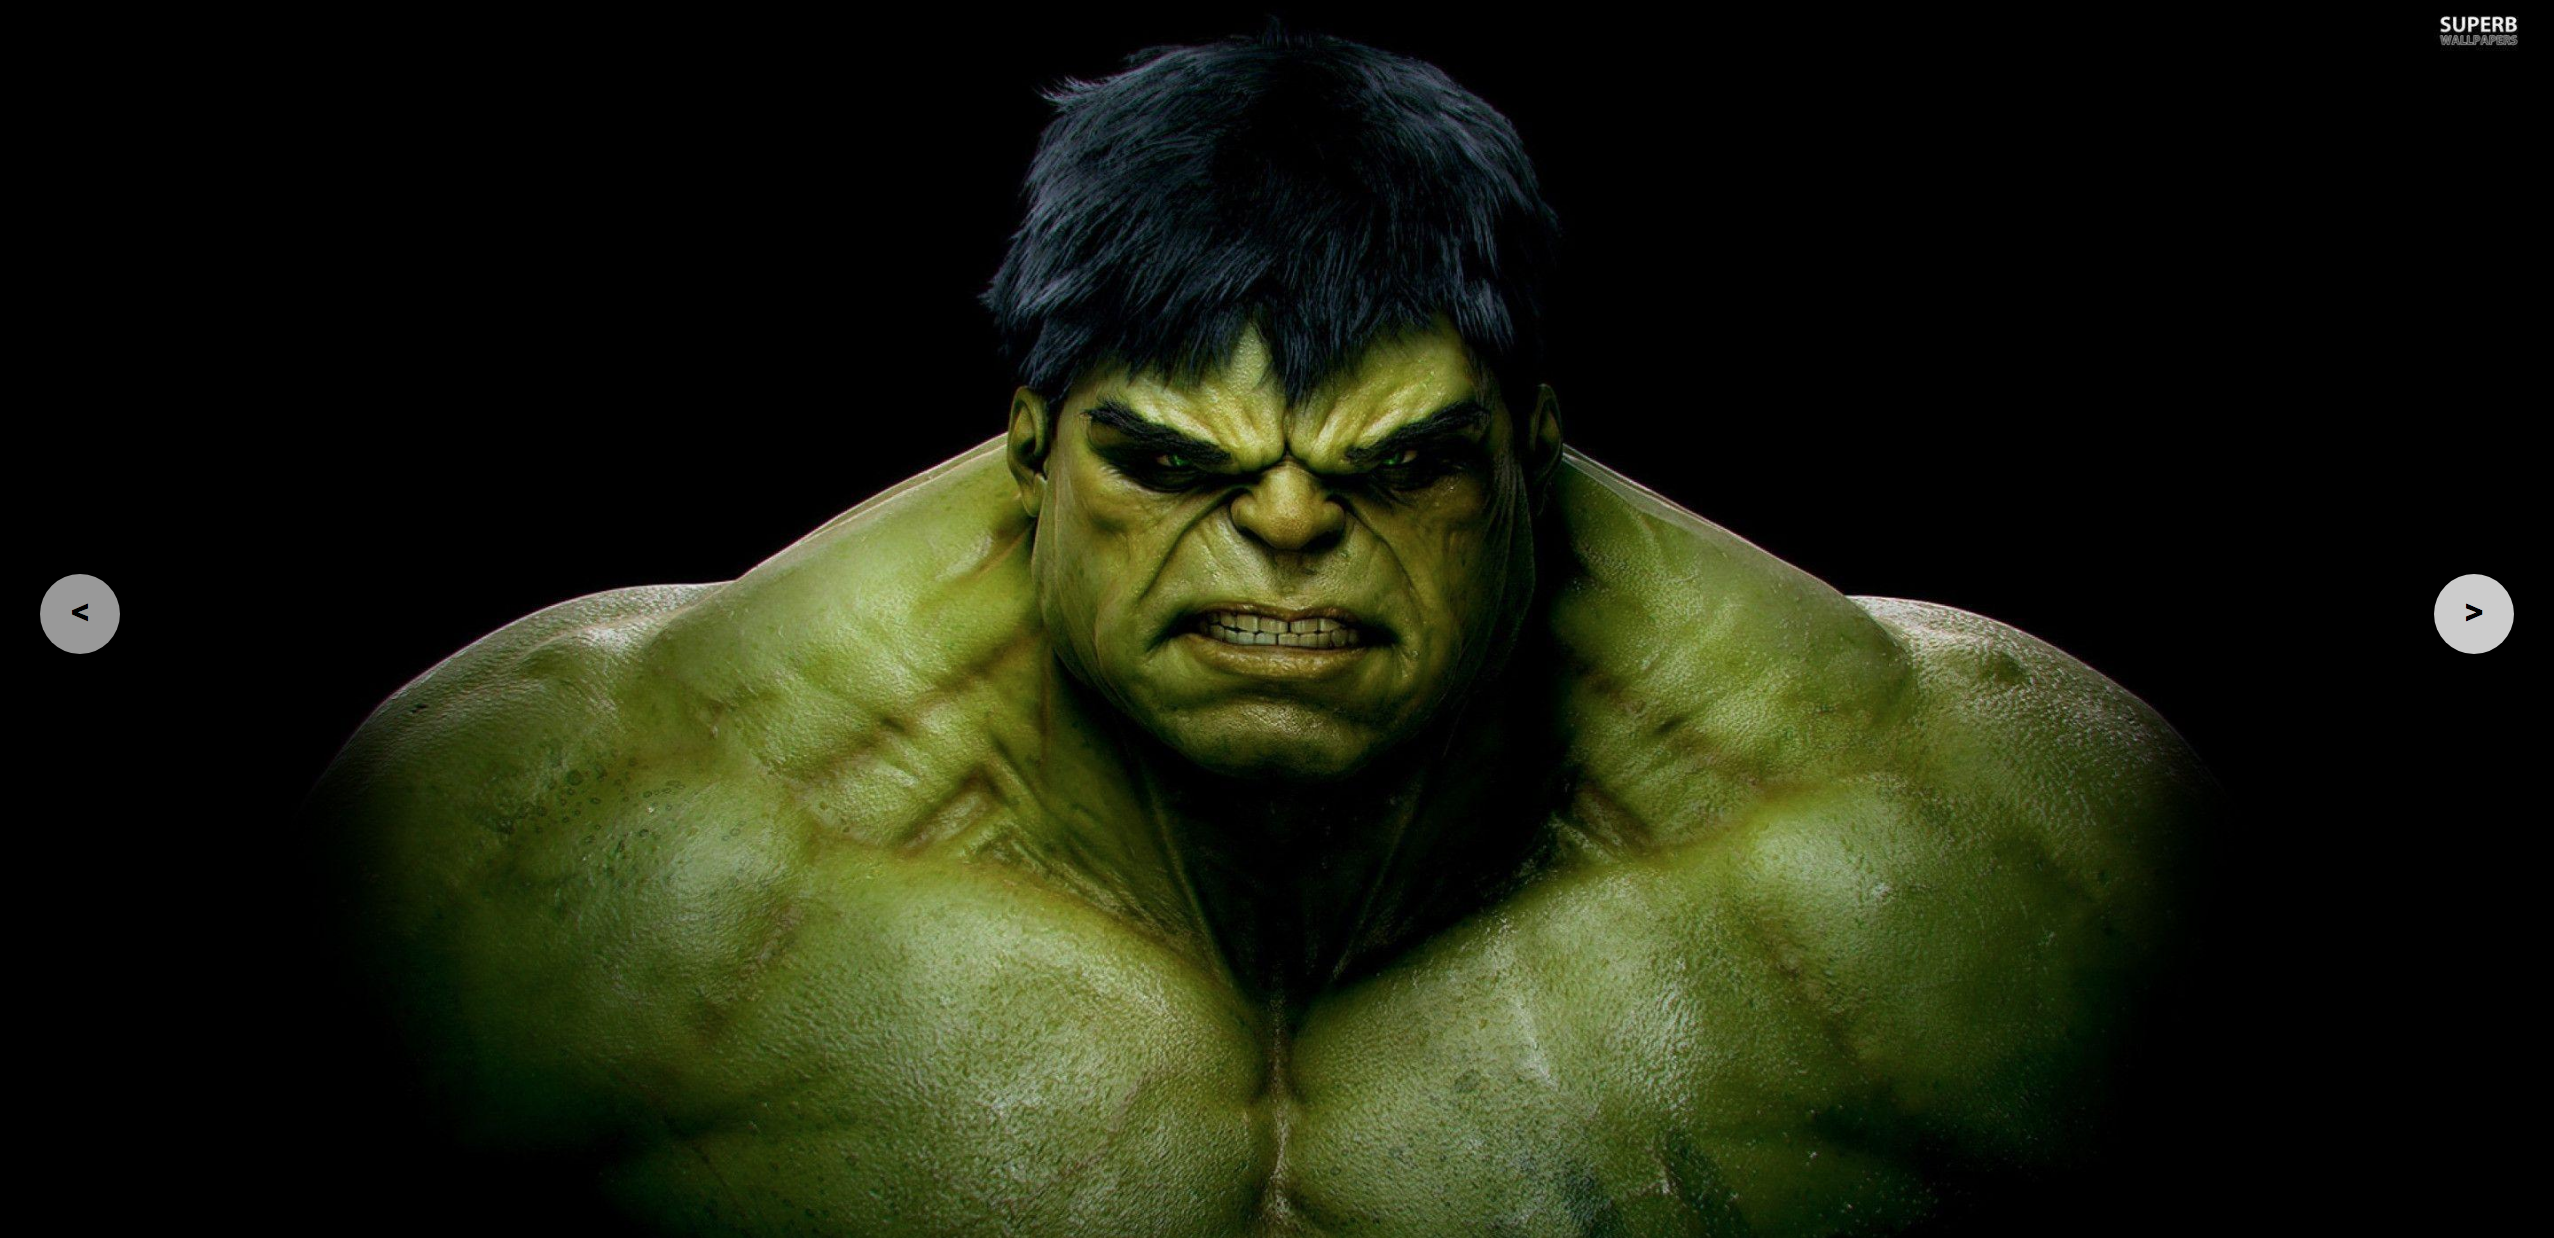
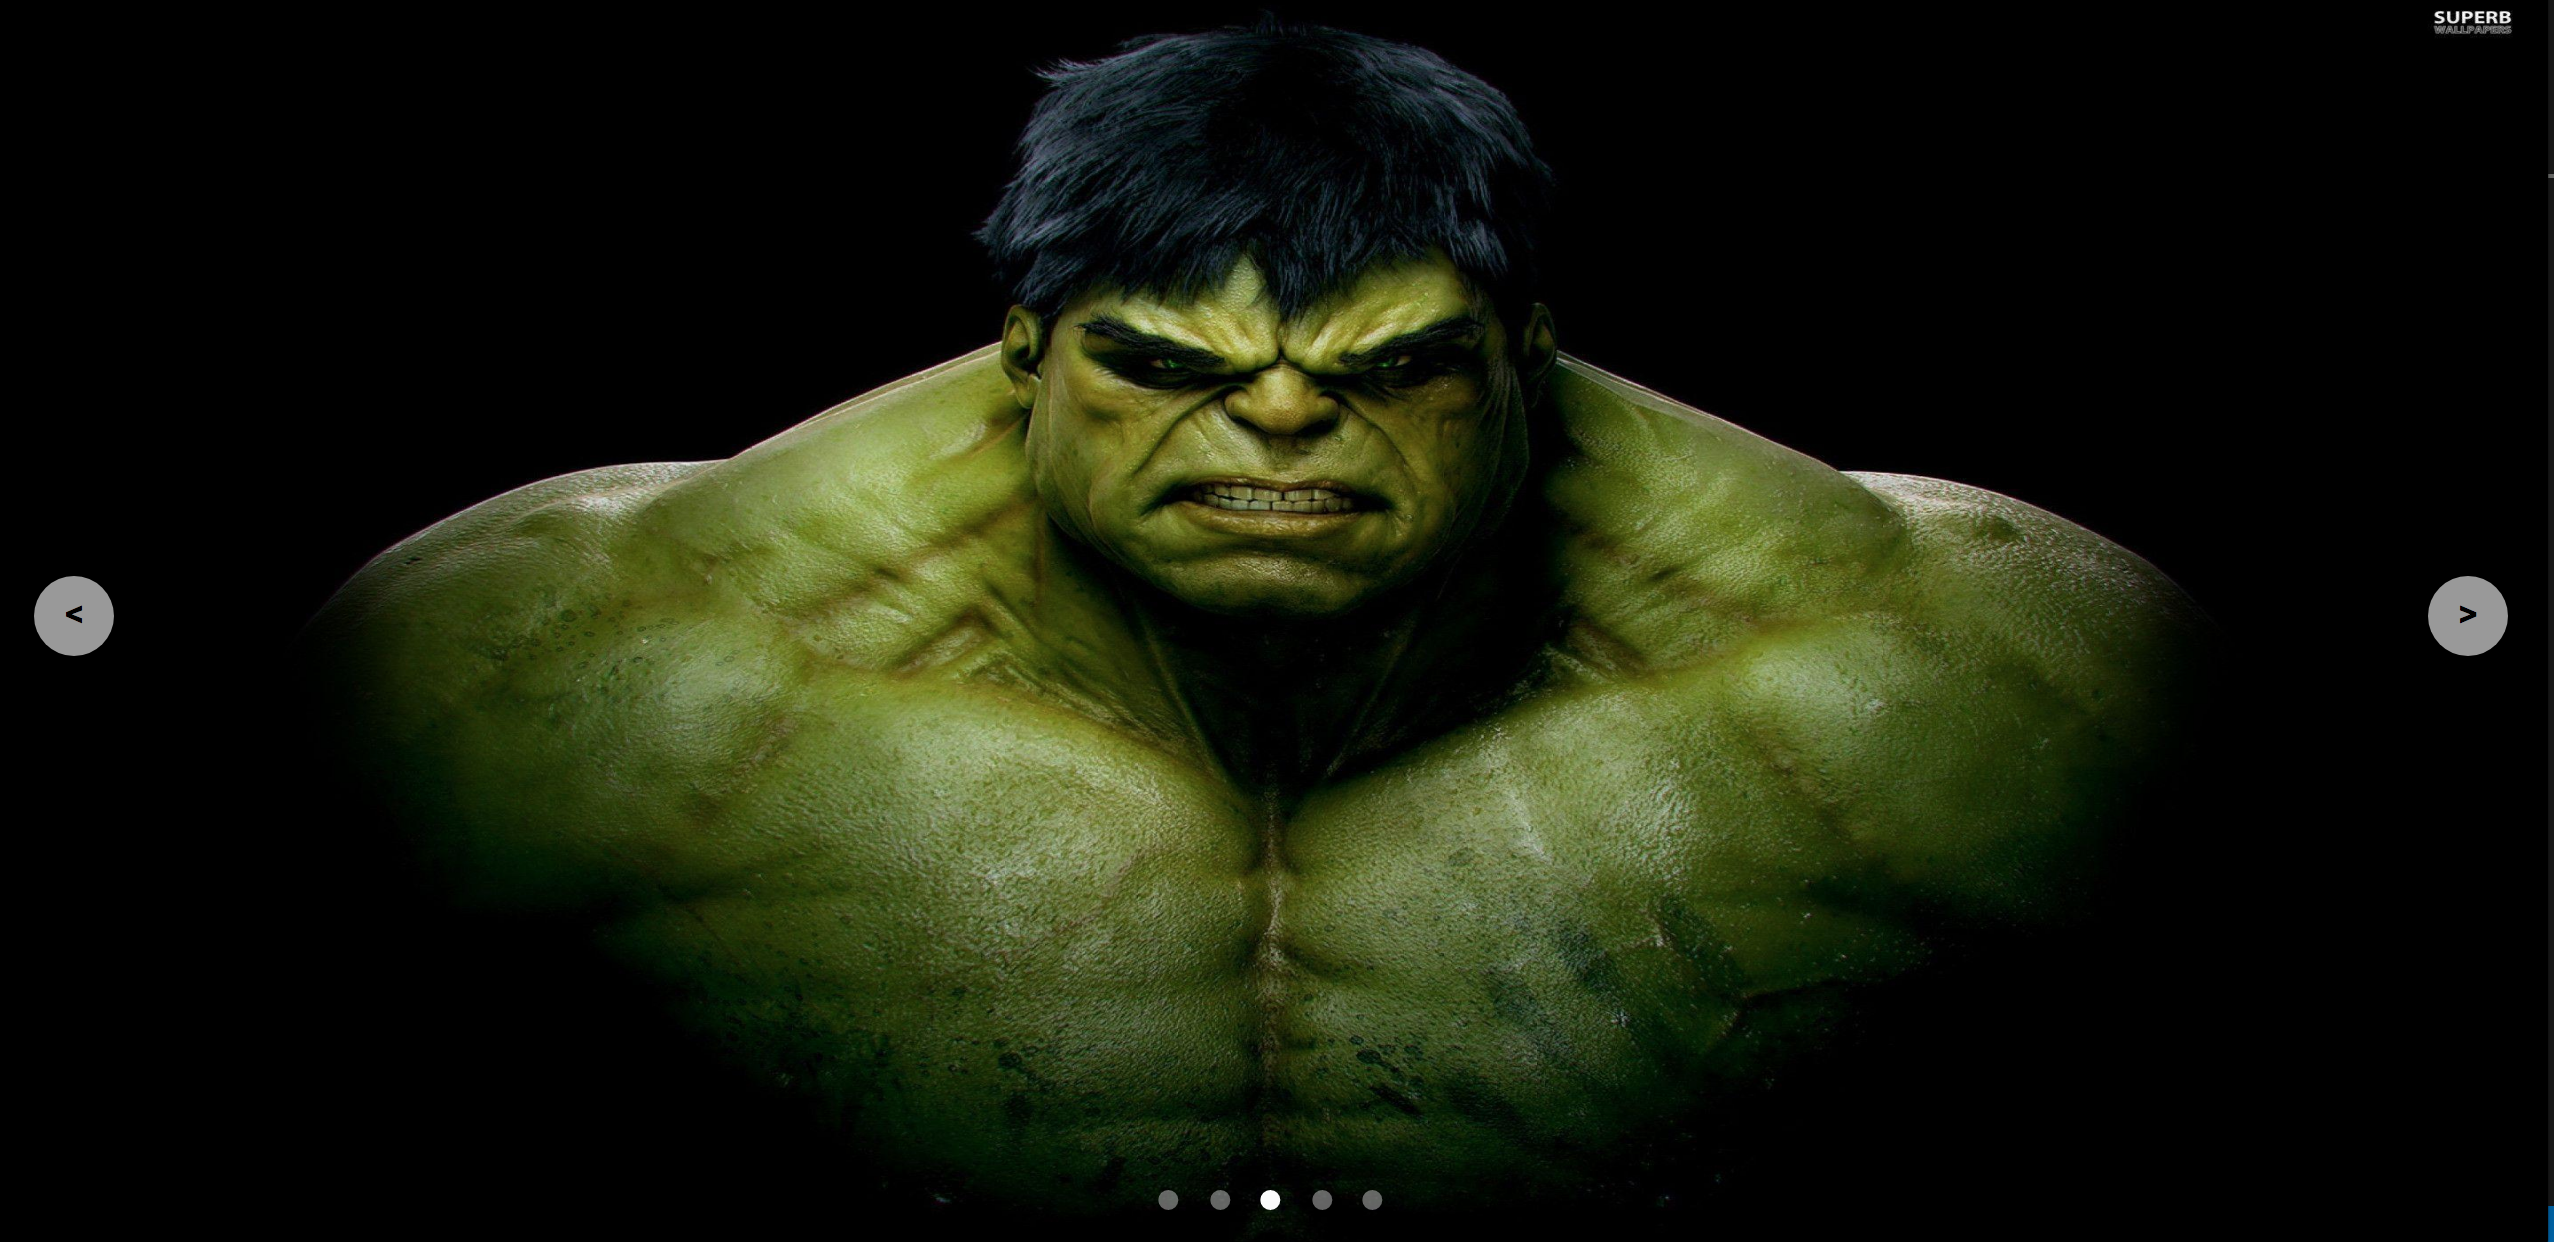
added progress bar

diff --git a/styles.css b/styles.css
@@ -21,7 +21,7 @@ body {
 .carousel .carousel-item img {
   width: 100%;
   /* max-width: 600px; */
-  height: auto;
+  height: 100vh;
 }
 
 .carousel .carousel-actions {
@@ -61,31 +61,27 @@ body {
   outline: none;
 }
 
-/*
-    Smooth transitions
-    - When a new slide appears that has the class name 'carousel-item-visible' we want to trigger an 
-    animation...
-    
-    1) Create a new '@keyframes' at the bottom of this file called 'fadeVisibility' - 
-    kind of like a JS function! '@keyframes fadeVisibility {}'
-    2) Keyframes work in steps, so 0-100 on a range. 
-    Each step you supply changes the animation sequence, e.g. 0% could be hidden and have an opacity of 0, 
-    and 100% could be showing the item by having an opacity of 1
-    3) Our first keyframe step would be '0%' which sets the opacity to 0, 
-    remember that '0%' on our sequence step is not like a regular property/values, 
-    you have to use curly braces and then set your values inside there!
-    4) Our second keyframe step within 'fadeVisibility' would be '100%', 
-    which sets the opacity to 1
-    5) Add this keyframe animation to 'carousel-item-visible' by using the property 
-    'animation' and pass our keyframes, those keyframes being 'fadeVisibility'
-    7) Lastly after we have added our property and value to 'carousel-item-visible', 
-    we need to pass a time value (i'm going to be using seconds), so after 'animation: fadeVisibility' 
-    pass a time value. I'm going to use 0.5s - which should look like this: 'animation: fadeVisibility 0.5s'
-    
-    Info: So from 0% - 100% in our keyframes we wait 0.5 seconds and go from an opacity of 0, to an opacity of 1!
-    
-    More info: https://developer.mozilla.org/en-US/docs/Web/CSS/@keyframes
-*/
+#carousel-state {
+  display: flex;
+  position: absolute;
+  justify-content: space-around;
+  bottom: 20px;
+  left: 50%;
+  transform: translateX(-50%);
+  width: 10%;
+}
+
+.carousel-status {
+  width: 10px;
+  height: 10px;
+  background: white;
+  opacity: 0.4;
+  border-radius: 50%;
+}
+
+.current {
+  opacity: 1;
+}
 
 @keyframes fadeVisibility {
   0% {

diff --git a/index.js b/index.js
@@ -1,22 +1,40 @@
-const slides = document.querySelectorAll(".carousel-item");
-let pos = 0;
-const totalSlides = slides.length;
-console.log(totalSlides);
+import { imagesArr } from "./data.js";
 
-setInterval(moveToNextSlide, 5000);
+const images = imagesArr;
+const slidesDiv = document.getElementById("carousel-container");
+const carouselState = document.getElementById("carousel-state");
+let pos = 0;
+const totalSlides = images.length;
+
+for (let i = 0; i < images.length; i++) {
+  slidesDiv.innerHTML += `<div class="carousel-item">
+                                <img src="images/${images[i]}.jpg" />
+                          </div>`;
+  carouselState.innerHTML += `<div class="carousel-status"></div>`;
+}
+
+const slides = document.querySelectorAll(".carousel-item");
+const allCarouselState = document.querySelectorAll(".carousel-status");
+slides[pos].classList.add("carousel-item-visible");
+allCarouselState[pos].classList.add("current");
+
+setInterval(moveToNextSlide, 10000);
 
 function moveToNextSlide() {
+  allCarouselState[pos].classList.remove("current");
   slides[pos].classList.remove("carousel-item-visible");
-  console.log(totalSlides);
   if (pos === totalSlides - 1) {
     pos = 0;
   } else {
     pos++;
   }
   slides[pos].classList.add("carousel-item-visible");
+  allCarouselState[pos].classList.add("current");
 }
 
 function moveToPrevSlide() {
+  allCarouselState[pos].classList.remove("current");
+  const slides = document.querySelectorAll(".carousel-item");
   slides[pos].classList.remove("carousel-item-visible");
   if (pos === 0) {
     pos = totalSlides - 1;
@@ -24,6 +42,7 @@ function moveToPrevSlide() {
     pos--;
   }
   slides[pos].classList.add("carousel-item-visible");
+  allCarouselState[pos].classList.add("current");
 }
 
 document

diff --git a/index.html b/index.html
@@ -4,30 +4,16 @@
   </head>
   <body>
     <div class="carousel">
-      <div class="carousel-item carousel-item-visible">
-        <img src="images/1.jpg" />
-      </div>
-      <div class="carousel-item">
-        <img src="images/2.jpg" />
-      </div>
-      <div class="carousel-item">
-        <img src="images/3.jpg" />
-      </div>
-      <div class="carousel-item">
-        <img src="images/4.jpg" />
-      </div>
-      <div class="carousel-item">
-        <img src="images/5.jpg" />
-      </div>
-
+      <div id="carousel-container"></div>
       <div class="carousel-actions">
         <button id="carousel-button-prev" aria-label="Previous Slidex">
           <
         </button>
         <button id="carousel-button-next" aria-label="Next Slide">></button>
       </div>
+      <div id="carousel-state"></div>
     </div>
 
-    <script src="index.js"></script>
+    <script src="./index.js" type="module"></script>
   </body>
 </html>

diff --git a/data.js b/data.js
@@ -1,0 +1,3 @@
+const imagesArr = [1, 2, 3, 4, 5];
+
+export { imagesArr };

diff --git a/README.md b/README.md
@@ -4,6 +4,10 @@ A working carousel using vanilla javascript.
 
 Below is a screenshot of this carousel browsing through some of my favourite superheroes.
 
-added a feature to automatic browse at every 5 seconds
+Below are the some features added till now
+
+1.automatic slide change at every 10 seconds.
+2.picking image urls from a different file
+3.progress bar
 
 <img src="screenshot.png" width="300px">
